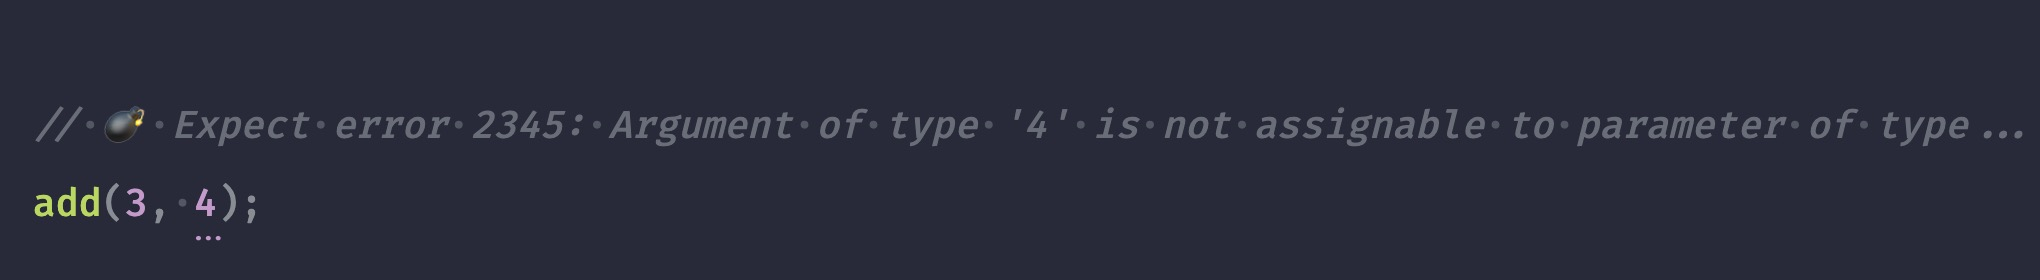
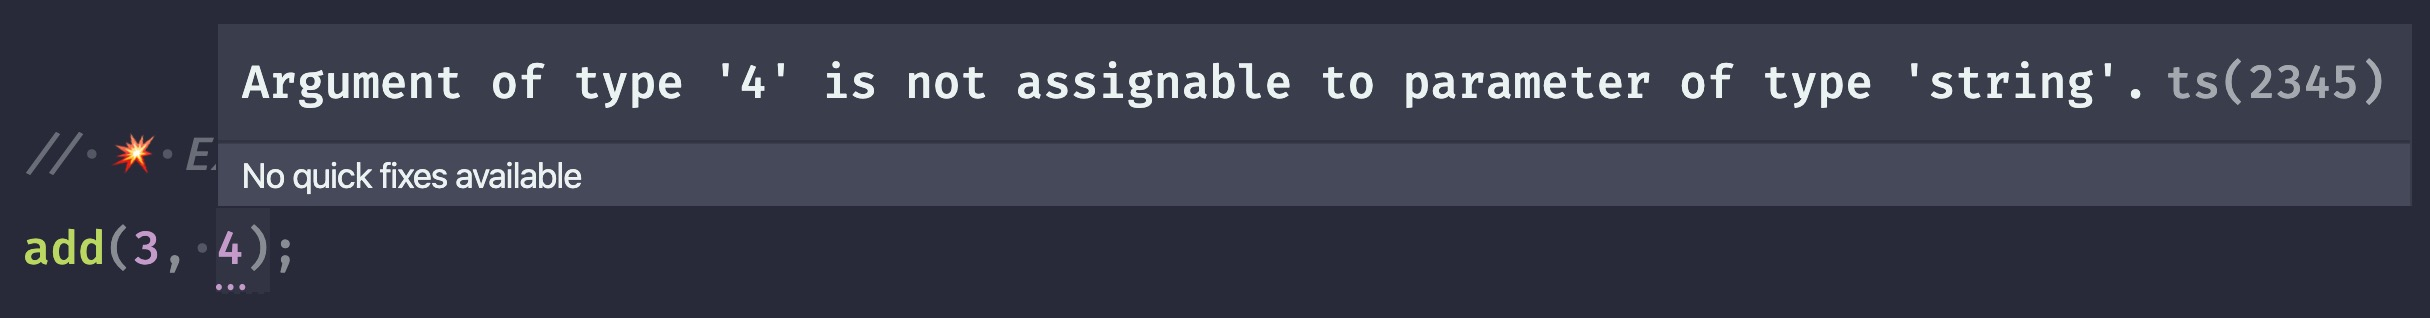
Use 💥 emojii instead of 💣

Changed region(s): [[0.0, 0.3714, 1.0, 0.8571], [0.0926, 0.2, 0.9882, 0.3429], [0.0926, 0.8857, 0.1235, 0.9143]]

diff --git a/src/diagnostics.ts b/src/diagnostics.ts
@@ -5,7 +5,7 @@ export const getExpectedDiagnostics = (sourceFile: ts.SourceFile) => {
     const sourceCode = sourceFile.getFullText();
 
     const annotations = sourceCode.matchAll(
-        /(.*?\/\/ 💣? ?Expect error (\d+)(.*?)\r?\n\s*)([^\n\r]*)/g,
+        /(.*?\/\/ 💥? ?Expect error (\d+):? ?(.*?)\r?\n\s*)([^\n\r]*)/g,
     );
 
     return Array.from(annotations, (annotation) => {
@@ -14,7 +14,7 @@ export const getExpectedDiagnostics = (sourceFile: ts.SourceFile) => {
         const start = annotation.index! + comment.length;
 
         const messageText = `Missing error ${code}` +
-            (expectedErrorMessage === "" ? "" : `"${expectedErrorMessage}"`);
+            (expectedErrorMessage === "" ? "" : ` "${expectedErrorMessage}"`);
 
         return {
             file: sourceFile,

diff --git a/src/test/fixtures/ok-function.ts b/src/test/fixtures/ok-function.ts
@@ -2,5 +2,5 @@ export const add = (a: number, b: string) => {
     return a + b;
 };
 
-// 💣 Expect error 2345: Argument of type '4' is not assignable to parameter of type...
+// 💥 Expect error 2345: Argument of type '4' is not assignable to parameter of type...
 add(3, 4);

diff --git a/src/test/fixtures/error-wrong-place.ts b/src/test/fixtures/error-wrong-place.ts
@@ -1,5 +1,5 @@
 
-// 💣 Expect error 2345: Argument of type '4' is not assignable to parameter of type...
+// 💥 Expect error 2345: Argument of type '4' is not assignable to parameter of type...
 3 + 4;
 export const myNumber: number = "my string";
 

diff --git a/src/test/fixtures/ok-preceding-comment.ts b/src/test/fixtures/ok-preceding-comment.ts
@@ -4,5 +4,5 @@
  * Do this, do that.
  */
 
-// 💣 Expect error 2322: Type '"my string"' is not assignable to type...
+// 💥 Expect error 2322: Type '"my string"' is not assignable to type...
 export const myNumber: number = "my string";

diff --git a/src/test/fixtures/ok-variable.ts b/src/test/fixtures/ok-variable.ts
@@ -1,2 +1,2 @@
-// 💣 Expect error 2322: Type '"my string"' is not assignable to type...
+// 💥 Expect error 2322: Type '"my string"' is not assignable to type...
 export const myNumber: number = "my string";

diff --git a/README.md b/README.md
@@ -1,6 +1,6 @@
 @peerigon/typescript-exercises-tools
 =============================
-**Validate TypeScript files with inline comments.**
+**Tools for validating TypeScript exercises.**
 
 [![](https://img.shields.io/npm/v/@peerigon/typescript-exercises-tools.svg)](https://www.npmjs.com/package/@peerigon/typescript-exercises-tools)
 [![](https://img.shields.io/npm/dm/@peerigon/typescript-exercises-tools.svg)](https://www.npmjs.com/package/@peerigon/typescript-exercises-tools)
@@ -16,7 +16,7 @@ export const add = (a: number, b: string) => {
     return a + b;
 };
 
-// 💣 Expect error 2345: Argument of type '4' is not assignable to parameter of type...
+// 💥 Expect error 2345: Argument of type '4' is not assignable to parameter of type...
 add(3, 4);
 ```
 
